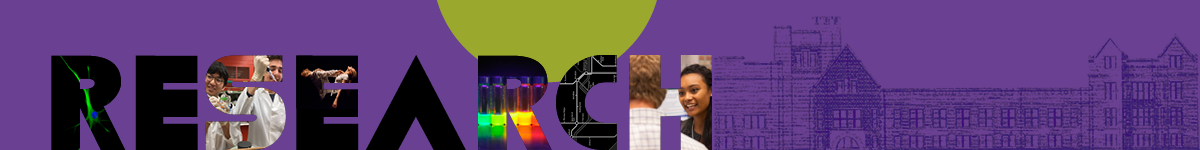
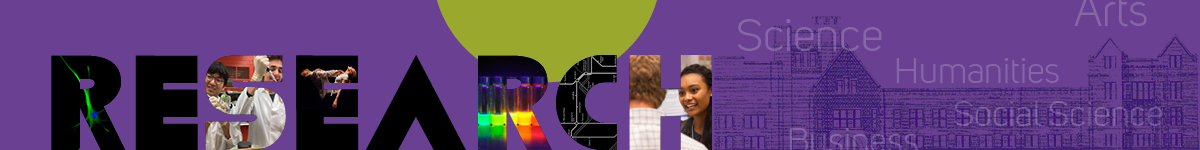
update symposium header

diff --git a/public/stylesheets/symposium2016.css b/public/stylesheets/symposium2016.css
@@ -16,7 +16,7 @@ body {
 }
 
 #header {
-	background: #fff url(../images/symposium/2016/header.png) ;
+	background: #694092 url(../images/symposium/2016/header.png) no-repeat;
 	height: 149px;
 	border-bottom: 1px solid #b2b2b2;
 }
@@ -52,7 +52,7 @@ h1.page_title {
 	width: 750px;
 	position: absolute;
 	top: 0px;
-	left: 50px;
+/*	left: 50px;*/
 	background: url(../images/symposium/2016/header-title.png) no-repeat;
 }
 
